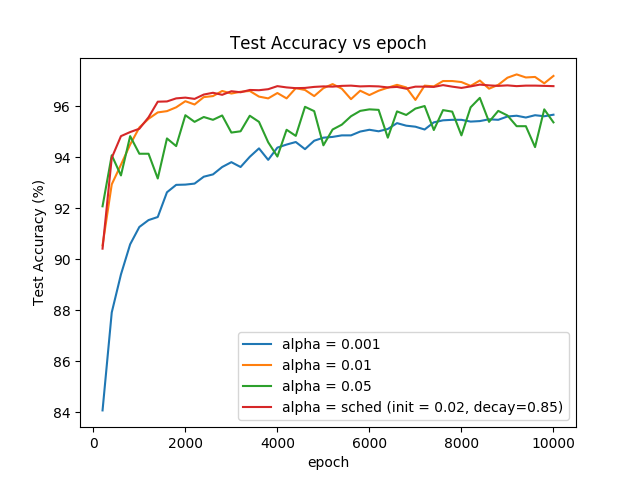
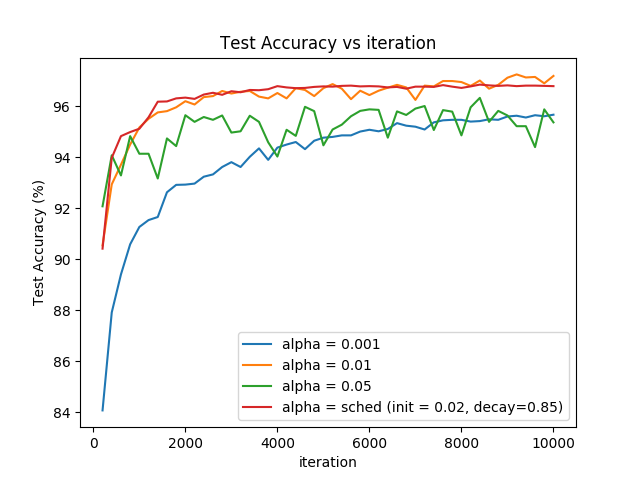
Update MLP post

Changed region(s): [[0.3438, 0.0625, 0.6875, 0.125], [0.4688, 0.9375, 0.5625, 1.0]]

diff --git a/_posts/2017-08-27-Multi-Layer-Perceptron.md b/_posts/2017-08-27-Multi-Layer-Perceptron.md
@@ -211,7 +211,7 @@ lot of fluctuations in the test loss. The learning rate scheduling works best,
 initially moves rapidly (taking larger steps) and then lowers the
 learning rate to steadily move to an optimum.
 
-<span>**Training Loss vs Epoch for different Learning rates**</span>
+<span>**Training Loss vs Iterations for different Learning rates**</span>
 
  |  ![image](/assets/MLP/plots/sig_3.png)  | ![image](/assets/MLP/plots/sig_4.png) |
  |  ![image](/assets/MLP/plots/sig_5.png)  |  ![image](/assets/MLP/plots/sig_6.png) |
@@ -237,10 +237,10 @@ test-accuracy of $96.8$%
 The performance of ReLU activated network is better than that of
 sigmoid, it achieves a higher accuracy and also has a lower test loss.
 However, observe that the sigmoid activated MLP approximately reaches
-close to the least loss it achieves in about $1000$ epochs whereas the
-ReLU activated MLP takes approximately $2000$ epochs.
+close to the least loss it achieves in about $1000$ iterations whereas the
+ReLU activated MLP takes approximately $2000$ iterations.
 
-<span>**Training Loss vs Epoch for different Learning rates**</span>
+<span>**Training Loss vs Iterations for different Learning rates**</span>
 
   
   | ![image](/assets/MLP/plots/rel_3.png)  | ![image](/assets/MLP/plots/rel_4.png) |
